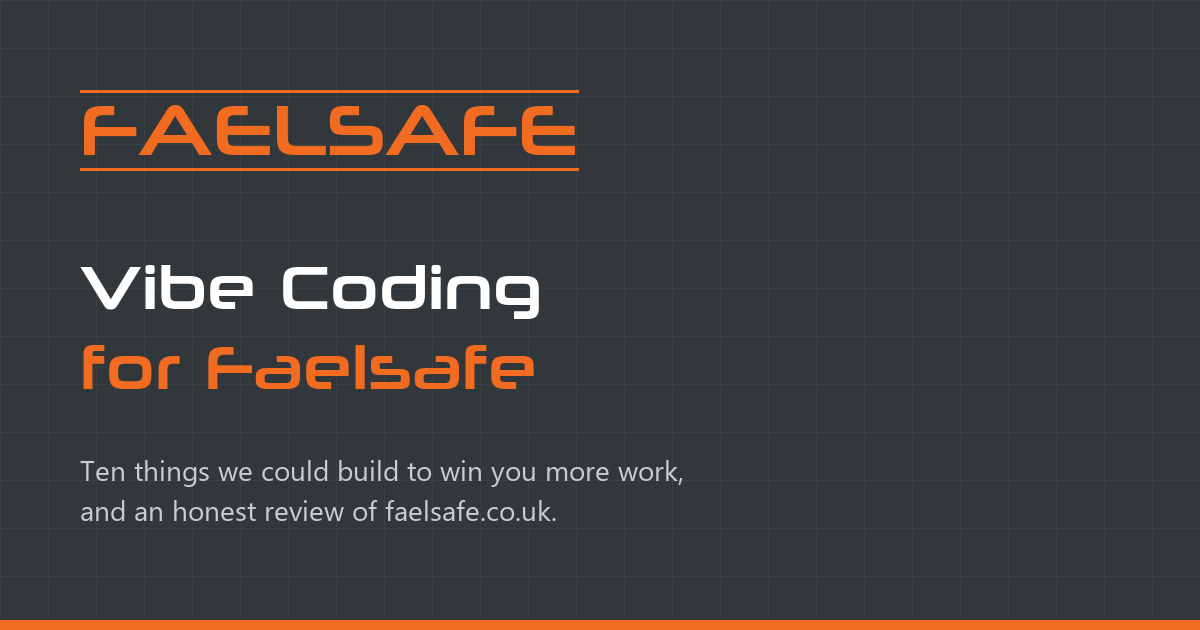
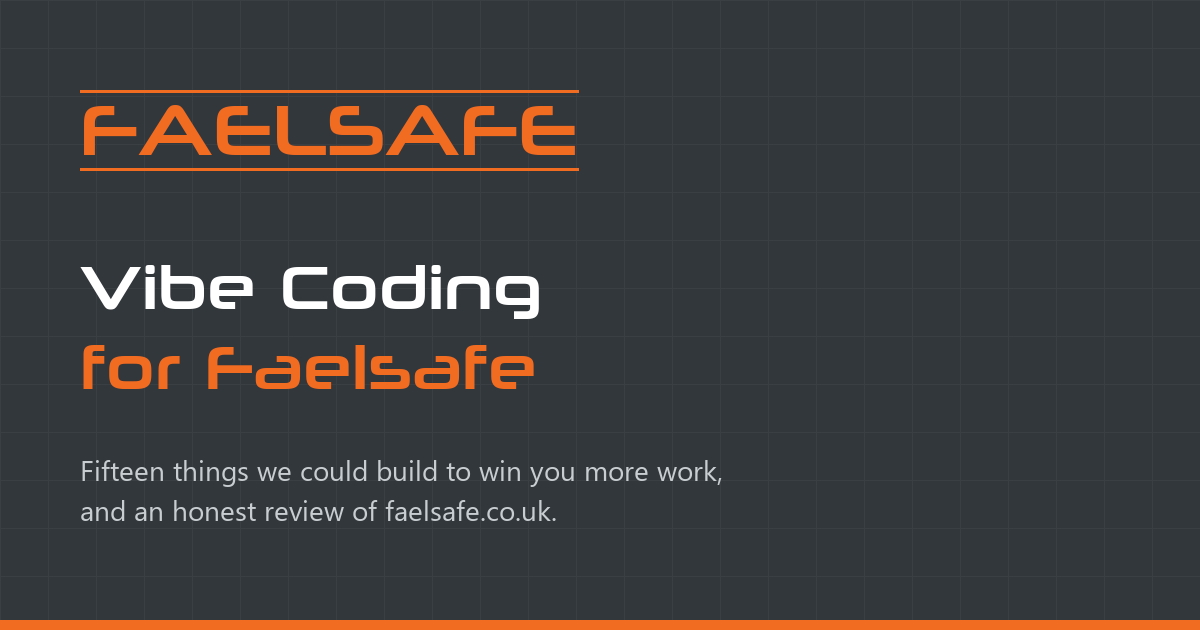
Add five public-data ideas: ten becomes fifteen
New fourth tier, "Signals nobody else is watching" (ideas 11-15), modelled on
the FCA site's joined-up-public-data tier. These need nothing from Faelsafe's
own systems — they are built by scraping and joining public sources that
nobody in the trade reads:

  11 Planning Application Radar — council planning portals, 12-18 months
     ahead of any tender
  12 Enforcement Notice Radar   — fire authority enforcement/prohibition
     notices and HSE prosecutions: duty holders under a legal deadline
  13 The Contract Expiry Clock  — award notices carry end dates, so you know
     when every rival's contract runs out
  14 Competitor Watch           — Companies House + BAFE/NICEIC/FIA registers
     + The Gazette, joined
  15 The Territory Map          — non-domestic EPC, care home/school and
     higher-risk building registers on one map

Every reference to the count updated: nav, breadcrumb, footer, home page card
and stat, both CTAs, vibe-coding CTA, page metadata, the Open Graph image and
the README. Two "ten"s deliberately left alone — "ten minutes of reading" and
"you can try ten and keep the two that work" are not counts of the ideas.

Claude-Session: https://claude.ai/code/session_01FDSwEYjqwYSSyrbGMS8hBx

Changed region(s): [[0.0617, 0.7238, 0.5858, 0.7841]]

diff --git a/app/opportunities/page.tsx b/app/opportunities/page.tsx
@@ -3,12 +3,12 @@ import { SiteNav, SiteFooter, DarkField } from "@/src/components/ui";
 import { p } from "@/src/lib/paths";
 
 export const metadata: Metadata = {
-  title: "Ten things we could build for Faelsafe | Faelsafe × Vibe Coding",
+  title: "Fifteen things we could build for Faelsafe | Faelsafe × Vibe Coding",
   description:
-    "Ten commercial opportunities for Faelsafe Life Safety Ltd — winning more contracts, turning completed work into recurring revenue, and cutting the paperwork that costs engineers. Each one costed and ready to build.",
+    "Fifteen commercial opportunities for Faelsafe Life Safety Ltd — winning more contracts, turning completed work into recurring revenue, cutting engineer paperwork, and reading public data nobody else in the trade joins together.",
 };
 
-type Tier = "win" | "revenue" | "hours";
+type Tier = "win" | "revenue" | "hours" | "signals";
 
 type Idea = {
   number: number;
@@ -189,6 +189,90 @@ const ideas: Idea[] = [
     ],
     note: "See the review",
   },
+
+  {
+    number: 11,
+    tier: "signals",
+    category: "Planning data",
+    title: "Planning Application Radar",
+    hook: "Every building in Yorkshire that will need fire systems, twelve months before it goes to tender.",
+    description:
+      "Every council publishes its planning applications, in public, the day they're submitted. A new care home, a warehouse extension, an office converted to flats, a school block — each one is a fire alarm, an emergency lighting scheme, a sprinkler system and a distribution board, eighteen months out. This reads Leeds, Bradford, Wakefield, Kirklees and Calderdale every morning and flags the applications that mean work for you, with the applicant and the agent's contact details attached.",
+    money:
+      "You would be talking to the developer while your competitors are still waiting for the tender to land in their inbox.",
+    stats: [
+      { value: "5+", label: "council portals read daily" },
+      { value: "12–18 mo", label: "ahead of the tender" },
+      { value: "Free", label: "public planning data" },
+    ],
+    note: "Earliest possible lead",
+  },
+  {
+    number: 12,
+    tier: "signals",
+    category: "Enforcement data",
+    title: "Enforcement Notice Radar",
+    hook: "Buildings that have been legally ordered to fix their fire safety. Today.",
+    description:
+      "When a fire authority serves an enforcement or prohibition notice, or the HSE prosecutes over electrical safety, that becomes a matter of public record. Behind every one is a building owner with a legal deadline, a compliance problem they cannot ignore, and usually no contractor lined up. This watches those public registers for your patch and tells you who they are while the notice is still fresh.",
+    money:
+      "There is no warmer lead in this trade than an organisation legally required to fix exactly what you do.",
+    stats: [
+      { value: "Legally", label: "obliged to act" },
+      { value: "Named", label: "premises and duty holder" },
+      { value: "Weekly", label: "sweep of public registers" },
+    ],
+    note: "Sharpest lead there is",
+  },
+  {
+    number: 13,
+    tier: "signals",
+    category: "Contract data",
+    title: "The Contract Expiry Clock",
+    hook: "Know when every rival's maintenance contract runs out — because they published it.",
+    description:
+      "When a council, trust or housing association awards a fire or electrical maintenance contract, the award notice is published — including who won it, what it's worth and when it ends. Almost nobody goes back and reads the end dates. This builds a calendar of every public life-safety contract in your region and when it expires, so you can start building the relationship six months before anyone else knows a retender is coming.",
+    money:
+      "Contracts are won in the six months before the tender opens, not in the two weeks after.",
+    stats: [
+      { value: "Award", label: "value and incumbent" },
+      { value: "6 mo", label: "warning before retender" },
+      { value: "Public", label: "already published data" },
+    ],
+  },
+  {
+    number: 14,
+    tier: "signals",
+    category: "Competitor data",
+    title: "Competitor Watch",
+    hook: "Which local firms are growing, which are in trouble, and whose customers are about to be in play.",
+    description:
+      "Every competitor in your patch files accounts at Companies House, appears or disappears from the BAFE, NICEIC and FIA registers, and shows up in The Gazette if they hit trouble. Joined together, that is a live picture of your market: who is expanding, who has lost their accreditation, who is winding up — and therefore whose contracts and whose engineers are suddenly available.",
+    money:
+      "When a competitor fails, their clients need a contractor within weeks. Knowing first is the whole advantage.",
+    stats: [
+      { value: "4", label: "public registers joined" },
+      { value: "Accounts", label: "and accreditation changes" },
+      { value: "Alerts", label: "on insolvency notices" },
+    ],
+  },
+  {
+    number: 15,
+    tier: "signals",
+    category: "Joined-up data",
+    title: "The Territory Map",
+    hook: "Every building within reach that is legally required to have what you sell.",
+    description:
+      "Non-domestic energy certificates give you the building, its floor area and its use class. Care home and school registers give you the operator. The higher-risk buildings register gives you the residential blocks. Put on one map, that is every school, care home, warehouse, hospital and high-rise in your patch — sized, classified, owner named, and colour-coded by whether they're already a customer.",
+    money:
+      "It turns 'who should we be talking to?' from a guess into a list you can work through.",
+    stats: [
+      { value: "One map", label: "of your whole territory" },
+      { value: "Sized", label: "floor area and use class" },
+      { value: "Gaps", label: "shown against your client list" },
+    ],
+    note: "Most visual",
+  },
 ];
 
 const tiers: { key: Tier; title: string; note: string; blurb: string }[] = [
@@ -212,6 +296,13 @@ const tiers: { key: Tier; title: string; note: string; blurb: string }[] = [
     note: "Ideas 07 – 10",
     blurb:
       "Time is the only thing you can't buy more of, and admin is eating it.",
+  },
+  {
+    key: "signals",
+    title: "Signals nobody else is watching",
+    note: "Ideas 11 – 15",
+    blurb:
+      "These five are different. They don't need a single thing from your systems — they're built by reading public data that is already out there, free, and that essentially nobody in the trade bothers to join together. This is where we've had the most success elsewhere.",
   },
 ];
 
@@ -267,7 +358,7 @@ export default function Opportunities() {
     <>
       <SiteNav
         activePage="opportunities"
-        breadcrumb={[{ label: "Home", href: p("/") }, { label: "10 ideas for Faelsafe" }]}
+        breadcrumb={[{ label: "Home", href: p("/") }, { label: "15 ideas for Faelsafe" }]}
       />
 
       <main>
@@ -277,7 +368,7 @@ export default function Opportunities() {
           <div className="relative max-w-[1240px] mx-auto px-5 md:px-8 py-20 md:py-24">
             <p className="eyebrow text-accent mb-8">The main event</p>
             <h1 className="font-display text-[clamp(30px,4.2vw,54px)] text-white leading-[1.06] mb-8 max-w-[18ch]">
-              Ten things we could build for Faelsafe
+              Fifteen things we could build for Faelsafe
             </h1>
             <p className="text-lg md:text-xl text-white/85 max-w-[64ch] leading-relaxed mb-6">
               Every one of these is built the same way: an afternoon or two, a
@@ -285,10 +376,17 @@ export default function Opportunities() {
               whether it&apos;s worth keeping. None of them is a system to migrate
               onto. None of them replaces anything you already run.
             </p>
-            <p className="text-lg text-white/85 max-w-[64ch] leading-relaxed">
+            <p className="text-lg text-white/85 max-w-[64ch] leading-relaxed mb-6">
               They are ordered by what they do to the bank balance: winning more
               work, getting paid for work you&apos;ve already done, and stopping the
               leak of hours.
+            </p>
+            <p className="text-lg text-white/85 max-w-[64ch] leading-relaxed">
+              The last five are the ones we&apos;d push hardest. They need nothing
+              from your systems at all — they&apos;re built by reading public data
+              that is already out there and free, and joining it together in a way
+              nobody in your trade does. That is where we&apos;ve seen the biggest
+              wins.
             </p>
           </div>
         </section>

diff --git a/app/page.tsx b/app/page.tsx
@@ -15,10 +15,10 @@ const routes = [
     number: "02",
     href: p("/opportunities"),
     eyebrow: "The main event",
-    title: "Ten things we could build for Faelsafe",
+    title: "Fifteen things we could build for Faelsafe",
     hook: "Every one of them tied to money in or hours back.",
-    body: "Winning more contracts, getting paid twice for work already done, and killing the paperwork that costs you engineers. Read them, argue with them, and pick one.",
-    cta: "See the ten",
+    body: "Winning more contracts, getting paid twice for work already done, killing the paperwork that costs you engineers — and five built purely from public data nobody in your trade bothers to read. Argue with them, then pick one.",
+    cta: "See all fifteen",
   },
   {
     number: "03",
@@ -34,7 +34,7 @@ const routes = [
 const facts = [
   { value: "3", label: "days from brief to this site" },
   { value: "£0", label: "licence fees — you own it" },
-  { value: "10", label: "ideas costed and ready" },
+  { value: "15", label: "ideas costed and ready" },
 ];
 
 export default function Home() {
@@ -68,7 +68,7 @@ export default function Home() {
                 href={p("/opportunities")}
                 className="eyebrow bg-accent hover:bg-accent-hover text-white px-6 py-3.5 rounded-[2px] transition-colors"
               >
-                See the ten ideas
+                See the fifteen ideas
               </a>
               <a
                 href={p("/vibe-coding")}
@@ -166,7 +166,7 @@ export default function Home() {
             </h2>
             <p className="text-lg text-white/85 leading-relaxed mb-4">
               Not a pilot, not a discovery phase, not a statement of work. Pick
-              whichever of the ten looks most like money, and we build a working
+              whichever of the fifteen looks most like money, and we build a working
               version of it you can put in front of an engineer or a client.
             </p>
             <p className="text-lg text-white/85 leading-relaxed mb-10">
@@ -178,7 +178,7 @@ export default function Home() {
               href={p("/opportunities")}
               className="eyebrow inline-block bg-accent hover:bg-accent-hover text-white px-6 py-3.5 rounded-[2px] transition-colors"
             >
-              Go to the ten ideas
+              Go to the fifteen ideas
             </a>
           </div>
         </section>

diff --git a/app/layout.tsx b/app/layout.tsx
@@ -23,11 +23,11 @@ const neuropolitical = localFont({
 export const metadata: Metadata = {
   title: "Faelsafe × Vibe Coding | Software built in hours, not months",
   description:
-    "A working demonstration for Faelsafe Life Safety Ltd: what vibe coding is in plain English, ten things we could build to win Faelsafe more work, and an honest review of faelsafe.co.uk with a redesigned homepage you can click through.",
+    "A working demonstration for Faelsafe Life Safety Ltd: what vibe coding is in plain English, fifteen things we could build to win Faelsafe more work, and an honest review of faelsafe.co.uk with a redesigned homepage you can click through.",
   openGraph: {
     title: "Faelsafe × Vibe Coding",
     description:
-      "Ten commercial ideas, a plain-English explainer, and a rebuilt faelsafe.co.uk homepage.",
+      "Fifteen commercial ideas, a plain-English explainer, and a rebuilt faelsafe.co.uk homepage.",
     type: "website",
     locale: "en_GB",
   },

diff --git a/src/components/ui.tsx b/src/components/ui.tsx
@@ -47,7 +47,7 @@ type NavLink = { href: string; label: string; page: ActivePage; highlight?: bool
 export const NAV_LINKS: NavLink[] = [
   { href: p("/"), label: "Home", page: "home" },
   { href: p("/vibe-coding"), label: "What vibe coding is", page: "vibe-coding" },
-  { href: p("/opportunities"), label: "10 ideas for Faelsafe", page: "opportunities" },
+  { href: p("/opportunities"), label: "15 ideas for Faelsafe", page: "opportunities" },
   { href: p("/website"), label: "Your website", page: "website" },
   { href: p("/website/demo"), label: "See the redesign", page: "demo", highlight: true },
 ];
@@ -175,7 +175,7 @@ export function SiteFooter() {
       links: [
         { href: p("/"), label: "Home" },
         { href: p("/vibe-coding"), label: "What vibe coding is" },
-        { href: p("/opportunities"), label: "10 ideas for Faelsafe" },
+        { href: p("/opportunities"), label: "15 ideas for Faelsafe" },
       ],
     },
     {

diff --git a/app/vibe-coding/page.tsx b/app/vibe-coding/page.tsx
@@ -344,7 +344,7 @@ export default function VibeCoding() {
               href={p("/opportunities")}
               className="eyebrow inline-block bg-accent hover:bg-accent-hover text-white px-6 py-3.5 rounded-[2px] transition-colors"
             >
-              Ten things we could build for you
+              Fifteen things we could build for you
             </a>
           </div>
         </section>

diff --git a/README.md b/README.md
@@ -12,7 +12,7 @@ throughout, and deliberately free of technical vocabulary.
 |---|---|
 | `/` | Hero, why we're here, three routes into the tabs |
 | `/vibe-coding` | **Tab 1** — what vibe coding is, in plain English. Zero jargon by design |
-| `/opportunities` | **Tab 2** — ten things we could build, grouped into win-more-work / get-paid-twice / stop-losing-hours |
+| `/opportunities` | **Tab 2** — fifteen things we could build, grouped into win-more-work / get-paid-twice / stop-losing-hours / public-data signals |
 | `/website` | **Tab 3** — fifteen evidenced findings on faelsafe.co.uk |
 | `/website/demo` | **The redesign** — a working rebuilt Faelsafe homepage. No pitch-site chrome; it carries its own header and footer |
 
@@ -120,6 +120,6 @@ curl -s http://localhost:3111/website/demo | grep -o 'property="og:[a-z]*"'   # 
 
 - [ ] Read `/vibe-coding` and `/opportunities` aloud as the MD. Anything requiring
       technical knowledge to understand gets rewritten.
-- [ ] Sanity-check the ten ideas against what Faelsafe actually runs today — some may
+- [ ] Sanity-check the fifteen ideas against what Faelsafe actually runs today — some may
       already be covered by their existing job management software.
 - [ ] Decide whether to leave the accreditation badges in `/website/demo`.
